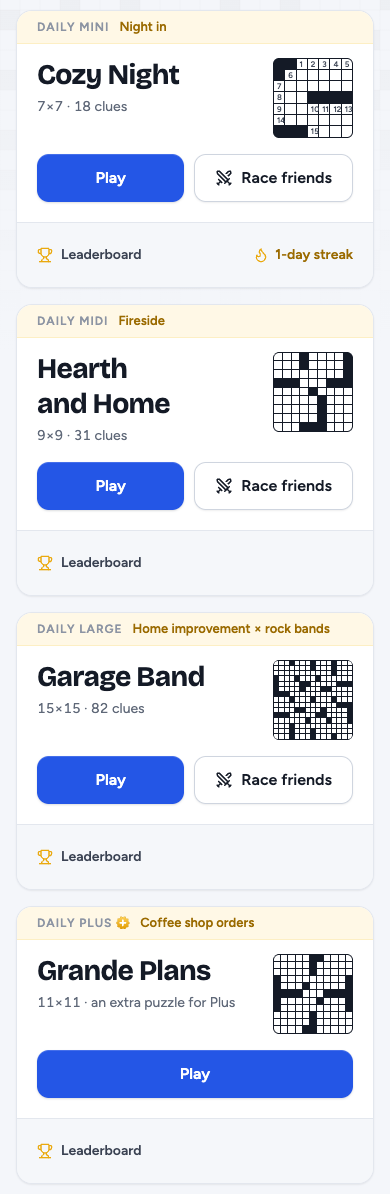
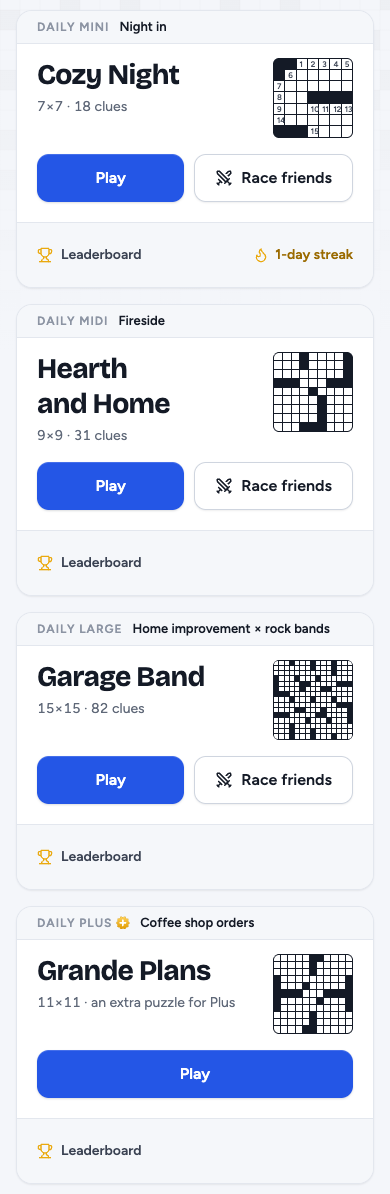
The ribbon is quiet grey with the theme in black
Claude-Session: https://claude.ai/code/session_01TCPTinhc3487xuyTLr2a7e

diff --git a/src/screens/MenuScreen.tsx b/src/screens/MenuScreen.tsx
@@ -85,11 +85,12 @@ export function DailyHero({ slot, daily, multiplayer, disabled, streak = 0, onPl
     // apart by assistive tech and by the e2e suite.
     <Card role="region" aria-label={label} className={`overflow-hidden ${solved || raced ? "bg-brand-50! border-brand-200!" : ""}`} aria-busy={!daily} data-solved={solved || undefined} data-raced={raced || undefined}>
       {/* The ribbon: which daily this is and its theme, across the card's full width so a
-          long theme reads whole (Andrew, 2026-11-16; as a chip beside the eyebrow it was cut off). */}
-      <div className="flex min-h-8 flex-wrap items-center gap-x-2.5 border-b border-gold-100 bg-gold-50 px-5 py-1.5 sm:px-6">
-        <Eyebrow className="shrink-0 text-brand-600">{label}</Eyebrow>
+          long theme reads whole (Andrew, 2026-11-16; as a chip beside the eyebrow it was cut off).
+          Quiet grey like the board strip below, so Play is the card's only strong colour. */}
+      <div className="flex min-h-8 flex-wrap items-center gap-x-2.5 border-b border-line bg-surface-sunken/60 px-5 py-1.5 sm:px-6">
+        <Eyebrow className="shrink-0">{label}</Eyebrow>
         {displayTheme(daily) && (
-          <span data-theme className="max-w-full min-w-0 truncate text-[13px] leading-5 font-semibold text-gold-700" title={displayTheme(daily)}>
+          <span data-theme className="max-w-full min-w-0 truncate text-[13px] leading-5 font-semibold text-ink" title={displayTheme(daily)}>
             {displayTheme(daily)}
           </span>
         )}

diff --git a/src/components/Plus/BonusCard.tsx b/src/components/Plus/BonusCard.tsx
@@ -73,13 +73,13 @@ export function BonusCard() {
   return (
     <Card role="region" aria-label={t("bonus.eyebrow")} className={`overflow-hidden ${solved ? "bg-brand-50! border-brand-200!" : ""}`} data-solved={solved || undefined}>
       {/* The ribbon, as on the dailies: Plus is marked with the badge's seal, then the theme. */}
-      <div className="flex min-h-8 flex-wrap items-center gap-x-2.5 border-b border-gold-100 bg-gold-50 px-5 py-1.5 sm:px-6">
-        <Eyebrow className="inline-flex shrink-0 items-center gap-1 text-brand-600">
+      <div className="flex min-h-8 flex-wrap items-center gap-x-2.5 border-b border-line bg-surface-sunken/60 px-5 py-1.5 sm:px-6">
+        <Eyebrow className="inline-flex shrink-0 items-center gap-1">
           {t("bonus.eyebrow")}
           <PlusBadge interactive={false} size="1.15em" />
         </Eyebrow>
         {card.theme && (
-          <span data-theme className="max-w-full min-w-0 truncate text-[13px] leading-5 font-semibold text-gold-700" title={card.theme}>
+          <span data-theme className="max-w-full min-w-0 truncate text-[13px] leading-5 font-semibold text-ink" title={card.theme}>
             {card.theme}
           </span>
         )}
